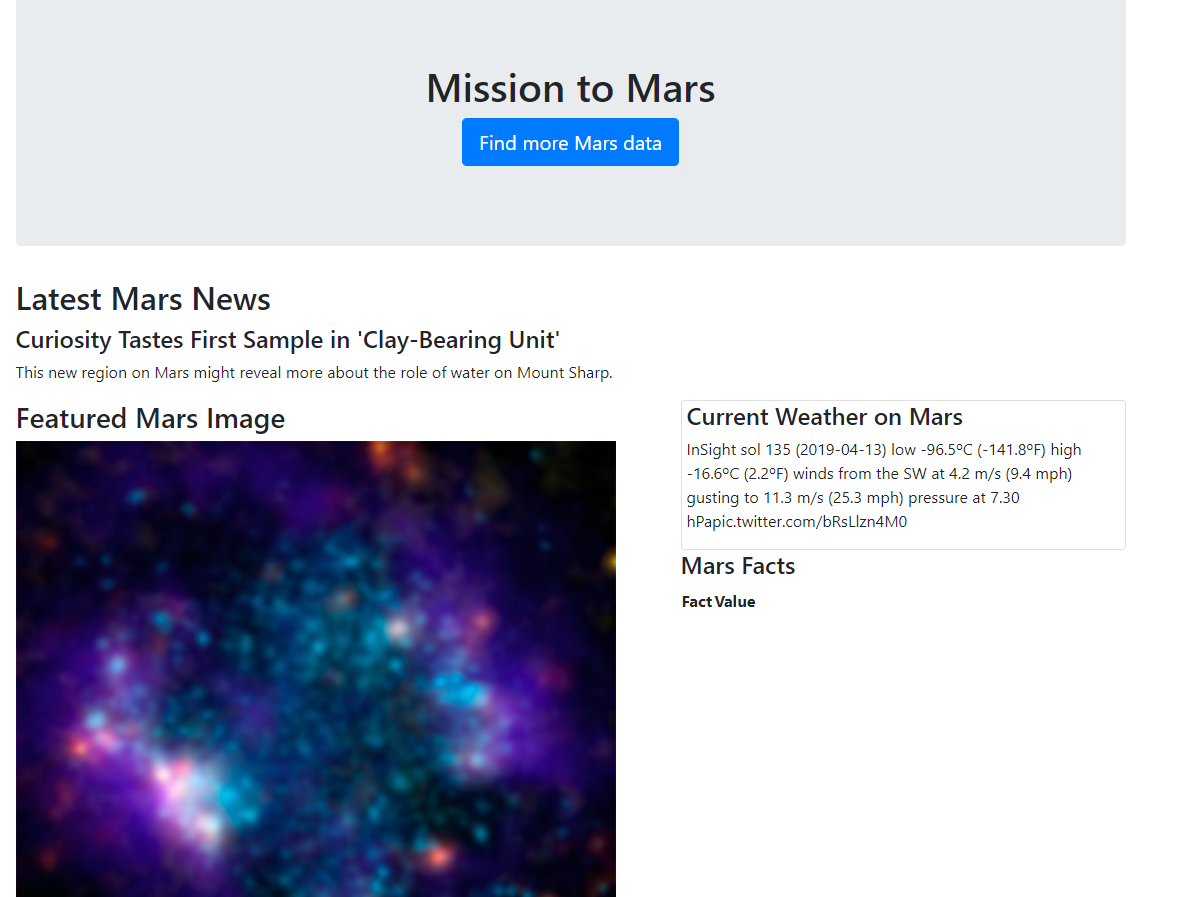
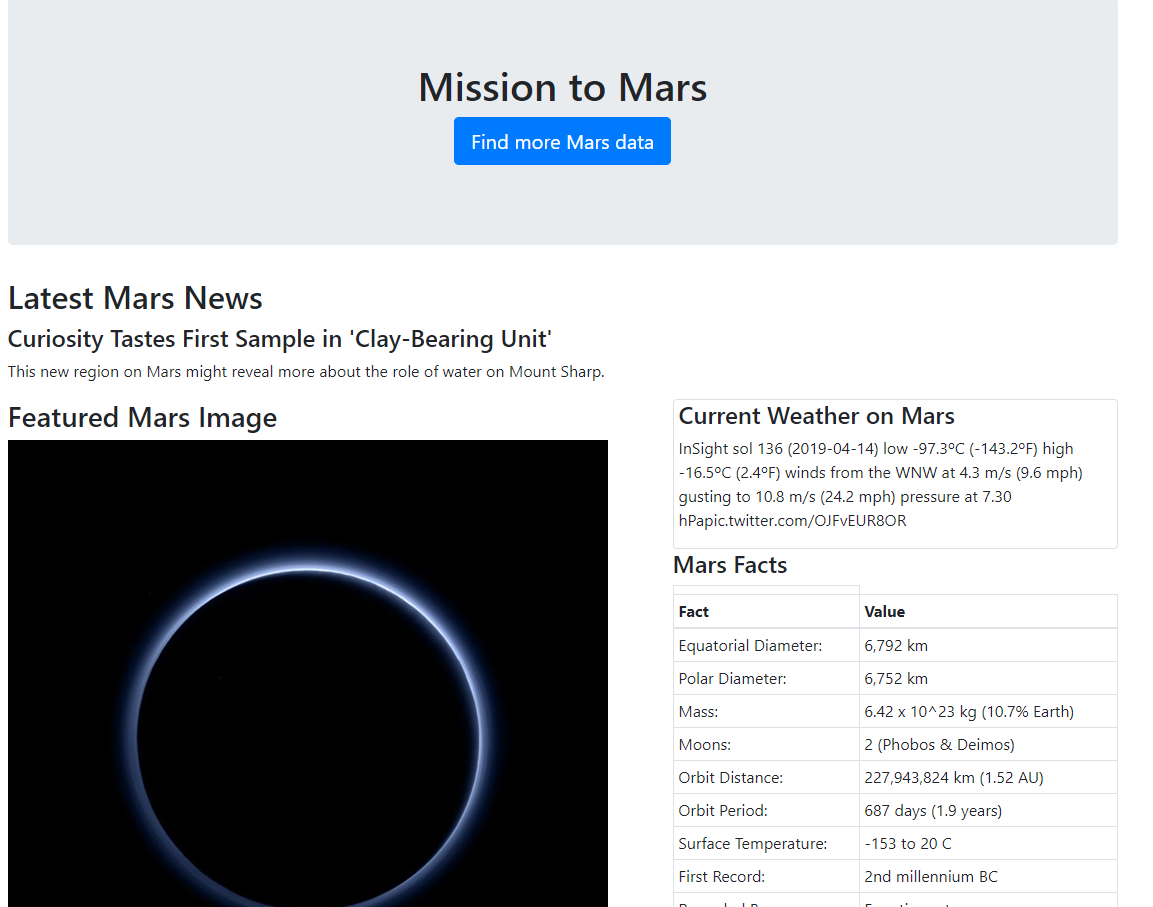
updated scrape function and index.html, added new pictures

diff --git a/mission_to_mars.py b/mission_to_mars.py
@@ -82,31 +82,26 @@ def scrape():
 
     #Mars Facts. use Pandas to scrape the table containing facts about the planet
 
-    # facts_site = 'https://space-facts.com/mars/'
-    # browser.visit(facts_site)
+        facts_site = 'https://space-facts.com/mars/'
+        browser.visit(facts_site)
 
-    # facts_site = browser.html
-    # soup = BeautifulSoup(facts_site, 'lxml')
+        facts_site = browser.html
+        soup = BeautifulSoup(facts_site, 'html')
 
-    # facts_table = soup.find_all('table')
+        profile = soup.find_all('article', id = "post-17")
 
-    # mars_facts = pd.read_html(str(facts_table))
+        fact_label = []
+        value = []
 
-    # #convert to dataframe and drop index
-    # mars_facts_df = mars_facts[0]
-    # mars_facts_df.columns = ['Fact', 'Values']
-
-    # mars_facts_df.set_index('Fact', drop = True, inplace = True)
-
-    # #convert new dataframe to dictionary
-
-    # mars_table_all = mars_facts_df.to_dict()
-
-    # for _, vals in mars_table_all.items():
-    #     mars_table = vals
-        #print(mars_table)
+        for sect in profile:
+            content = sect.find('div', class_ = "post-content")
+            facts = content.find('table', class_ = "tablepress tablepress-id-mars")
+            fact_label = [fact.text.replace("\n", "").replace(":","") for fact in facts.find_all('td', class_ = "column-1")]
+            value = [fact.text.replace("\n", "").replace(":","") for fact in facts.find_all('td', class_ = "column-2")]
     
+        mars_table = dict(zip(fact_label, value))
 
+        
 
     
     # ### Mars Hemispheres
@@ -164,6 +159,7 @@ def scrape():
     mars_dict = {"mars_headlines": news_titles,
                 "news_desc": news_p,
                 "featured_img": featured_img_url,
+                "mars_facts": mars_table,
                 "weather": weather,
                 "mars_hemispheres": hemisphere_img_urls
                      }

diff --git a/app.py b/app.py
@@ -1,0 +1,31 @@
+from flask import Flask, render_template, redirect
+from flask_pymongo import PyMongo
+import mission_to_mars
+
+app = Flask(__name__)
+
+# Use flask_pymongo to set up mongo connection
+app.config["MONGO_URI"] = "mongodb://localhost:27017/mars_app"
+mongo = PyMongo(app)
+
+# Or set inline
+# mongo = PyMongo(app, uri="mongodb://localhost:27017/craigslist_app")
+
+
+@app.route("/")
+def index():
+    mars_dict = mongo.db.mars_dict.find_one()
+    print(mars_dict)
+    return render_template("index.html", mars_info=mars_dict)
+
+
+@app.route("/scrape")
+def scraper():
+    mars_dict = mongo.db.mars_dict
+    mars_data = mission_to_mars.scrape()
+    mars_dict.update({}, mars_data, upsert=True)
+    return redirect("/", code=302)
+
+
+
+app.run(debug=True)
